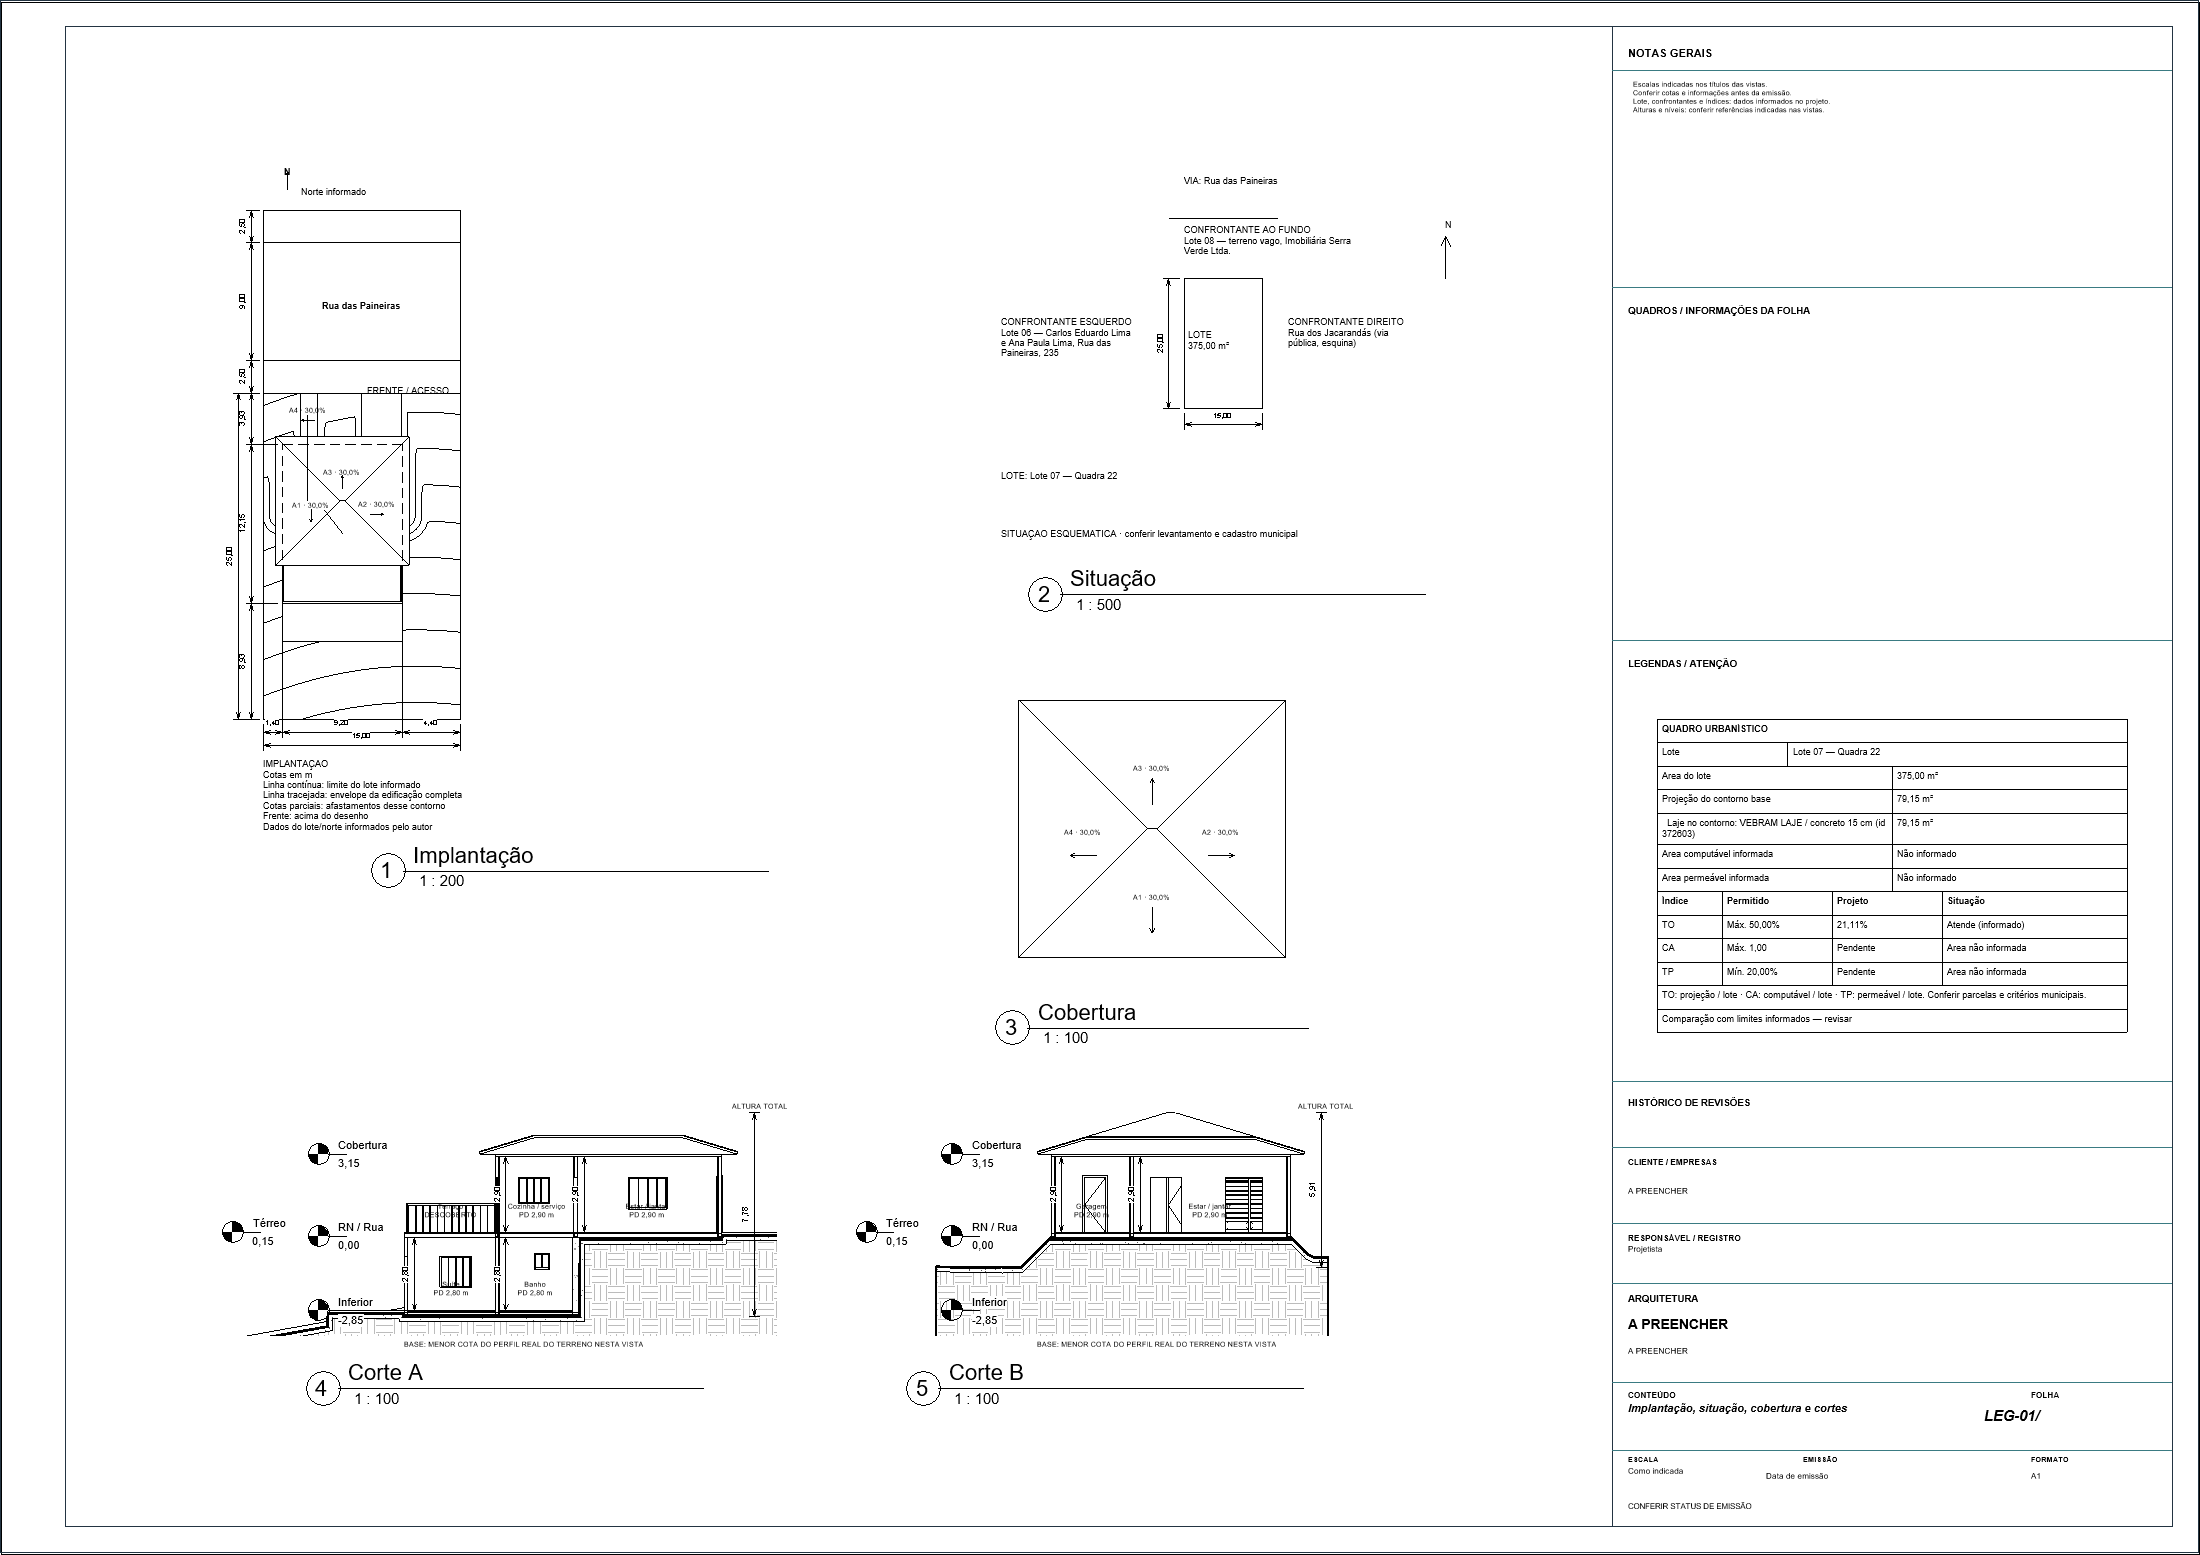
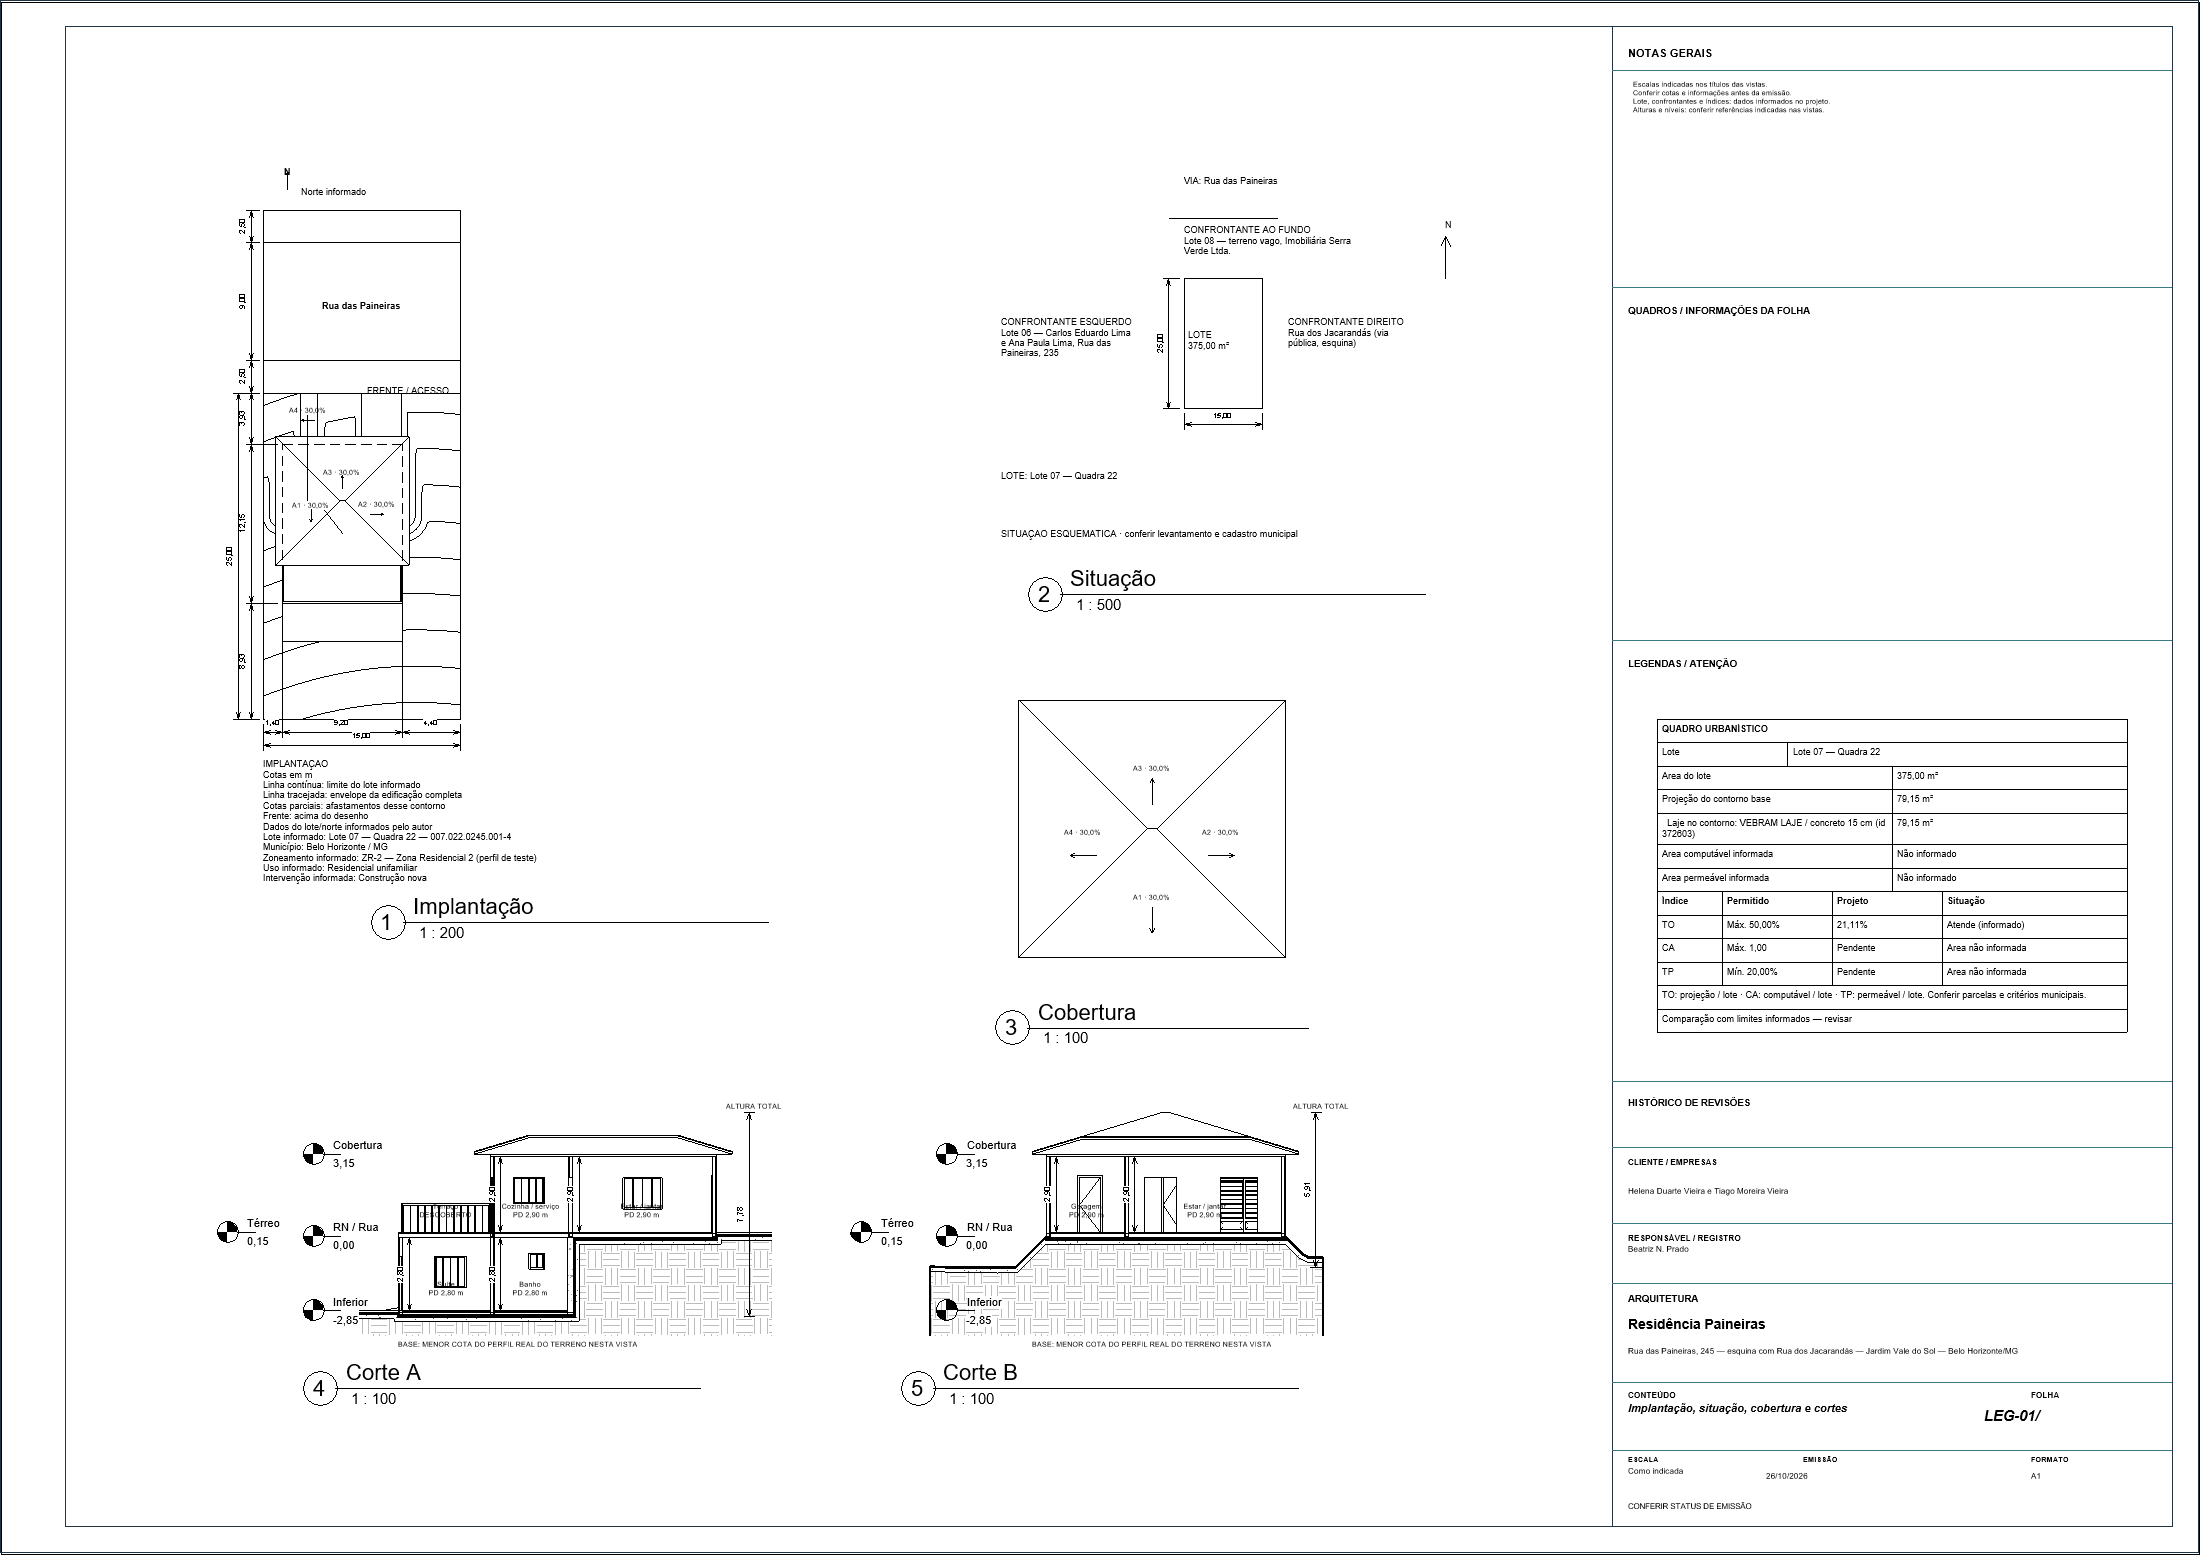
Conclui rodada final CT03 R2 com carimbo, fonte inferior e prévia reversível

diff --git a/casas-teste/CT03_esquina_declive/RESULTADO_TESTE_CT03_R2.md b/casas-teste/CT03_esquina_declive/RESULTADO_TESTE_CT03_R2.md
@@ -6,7 +6,9 @@ Branch: `codex/ct03-casa-inteira-terreno`, criada de `main` em `9d8ac749454144c0
 
 ## Situação da verificação
 
-A primeira rodada nativa concluiu na CT03 e no Sobrado, com folhas exportadas, zero avisos do Revit e geometria física preservada nos dois arquivos. A segunda rodada, com testes adicionais e o carimbo da CT03 preenchido, aguarda a autorização de carregamento do complemento no Revit. Os PNGs abaixo são da primeira rodada, cujo código já contém as três correções principais.
+A rodada final concluiu na CT03 (29 etapas) e no Sobrado (24 etapas), com folhas exportadas, zero avisos nativos do Revit e geometria física preservada nos dois arquivos. Nenhuma etapa registrou exceção. Os PNGs abaixo são da compilação final. Os avisos informativos do plugin e as pendências visuais estão discriminados abaixo; zero avisos do Revit não significa projeto pronto para emissão.
+
+PR para a main: [#15 — CT03: casa completa, terreno real e Implantação em 1:200](https://github.com/lucasfilipemuniz12/automacao-arquitetonica-revit/pull/15).
 
 ## O que mudou
 
@@ -16,10 +18,12 @@ A primeira rodada nativa concluiu na CT03 e no Sobrado, com folhas exportadas, z
 4. Implantação e Situação passam a usar o nível da planta-fonte. A vista anterior fica preservada como reserva quando está em outro nível.
 5. O campo Pavimentos aceita texto descritivo em uma linha de até 160 caracteres.
 
-## Passo a passo — primeira rodada nativa
+## Passo a passo — rodada final nativa
 
 | Etapa | Resultado | Conferência |
 |---|---|---|
+| Cadastro / Pavimentos em texto | Funcionou | Gravou e releu exatamente “2 (térreo e pavimento inferior em meio-nível sob o fundo)” |
+| Carimbo | Funcionou com aviso | Nome, clientes, endereço, emissão e campos das folhas existentes preenchidos; a nova LEG-04 não herdou o responsável da folha |
 | Edificação completa | Funcionou | Inventário inclui inferior, terraço, escada e guarda-corpos; limite inferior do recorte ≈ −3,81 m |
 | Implantação a partir do Térreo | Funcionou | Não exigiu recriar manualmente as vistas do template |
 | Afastamento dos fundos | Funcionou | Desenho mede aproximadamente 8,93 m até as faces externas, em vez dos 12,48 m da laje principal |
@@ -33,13 +37,17 @@ A primeira rodada nativa concluiu na CT03 e no Sobrado, com folhas exportadas, z
 | Memória do Inferior | Funcionou | Interna 45,18 m², incluindo PISO BOX |
 | Q04 | Funcionou | 12 ambientes com área, totais por pavimento e total geral |
 | Quadros de esquadrias | Funcionou | Portas/janelas mantidas nos quadros nativos |
-| Corte A | Funcionou | Suíte com PD 2,80 m medido no modelo; terraço identificado como DESCOBERTO; RN/Rua fora da casa |
+| Corte A | Funcionou com aviso | Suíte com PD 2,80 m medido no modelo; terraço identificado como DESCOBERTO; RN/Rua fora da casa; ao refazer o corte houve avisos para conferir extensões dos símbolos de nível |
 | Corte B | Funcionou | Níveis negativos e terreno real; três cotas verticais entre faces |
+| Corte usando a planta Inferior como fonte | Funcionou com aviso | Casa inteira e cinco cotas verticais reconhecidas; extensão dos quatro símbolos nativos de nível pede conferência. Fonte Térreo restaurada depois do teste |
 | Quatro fachadas | Funcionou | Inferior e terreno inclinado aparecem; áreas efetivamente enterradas continuam encobertas pelo terreno |
 | Organizar folhas | Funcionou | Três folhas utilizadas: LEG-01, LEG-02 e LEG-04; Implantação em 1:200 e desenhos restantes em suas escalas |
+| Reversão da prévia | Funcionou | IDs dos elementos e escalas iguais aos de antes após calcular; ao aplicar, somente a escala escolhida da Implantação mudou |
 | Preservação e avisos | Funcionou | Geometria física sem alteração e zero avisos do Revit |
 
 Os valores de PD vêm das faces reais do modelo entregue, e podem diferir do valor nominal da ficha devido às camadas das lajes/pisos. A modelagem não foi ajustada para o plugin passar.
+
+As duas TOs foram verificadas pela medição de produção `OccupationFootprint.Measure`; o quadro exportado mantém a escolha padrão de uma laje (79,15 m²).
 
 ## Folhas da CT03
 
@@ -74,7 +82,8 @@ A origem foi a cópia já cadastrada `Sobrado_Teste_02_teste_claude_0527.rvt`, d
 ## O que continua estranho ou pendente
 
 - Segunda rua da esquina e afastamento frontal secundário: não implementados nesta rodada.
-- O carimbo da primeira rodada da CT03 está sem os dados cadastrais, pois partiu da cópia do modelo-base. A rodada final para preencher e conferir esses campos ainda está pendente de carregamento do complemento.
+- A nova LEG-04 mostra o responsável genérico “Projetista”, pois não herdou os campos por folha preenchidos antes da sua criação. Os dados gerais da Residência Paineiras aparecem normalmente. O total após a barra da numeração da folha continua vazio.
+- Trocar a planta-fonte do Corte A para o Inferior e refazê-lo gerou avisos informativos para conferir as extensões dos símbolos de nível. O PNG final mantém os símbolos fora da casa; a suíte e o terraço estão reconhecidos.
 - Plantas pequenas continuam com algumas cotas pendentes para preservar a leitura dos rótulos.
 - A memória gráfica ainda tem legenda/texto próximos ao desenho; mantida a regra anterior.
 - O Q04 foi para a área principal porque não coube na lateral do carimbo.
@@ -87,3 +96,5 @@ Nenhum template foi aberto para modelagem nesta rodada. As origens tiveram os me
 
[2 lines of base64/hex data omitted]
+
+As cópias finais salvas estão em `validation/ct03-r2-final/R2_TESTE_CT03.rvt` e `R2_TESTE_Sobrado.rvt`, no checkout da branch. Uma cópia de cada uma acompanha a entrega local em `testes/`; os RVT não são enviados ao GitHub.
